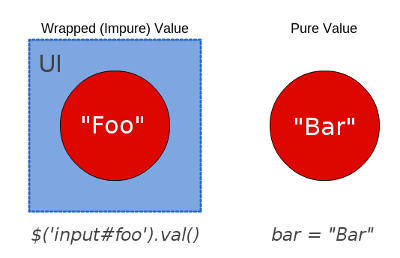
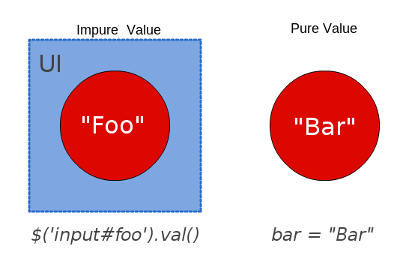
Update introduce page

Changed region(s): [[0.09, 0.093, 0.48, 0.155]]

diff --git a/document/introduce/index.html b/document/introduce/index.html
@@ -64,11 +64,11 @@ This is a good point in this OOP-overflowed age, especailly most of libraries ar
 Considering we have two string values, they have only one difference:
 
 <p style="text-align:center">
-![Wrapped Values and Pure Values](wrapped-pure-values.png) 
+![Impure Values and Pure Values](wrapped-pure-values.png) 
 </p>
 
 <p style="text-align:center">
-_Fig.1: Wrapped values differ from pure values._
+_Fig.1: Impure values differ from pure values._
 </p>
 
 String "Foo" comes from some DOM in the document, and the "Bar" is a Javascript string variable spawed from some literal.
